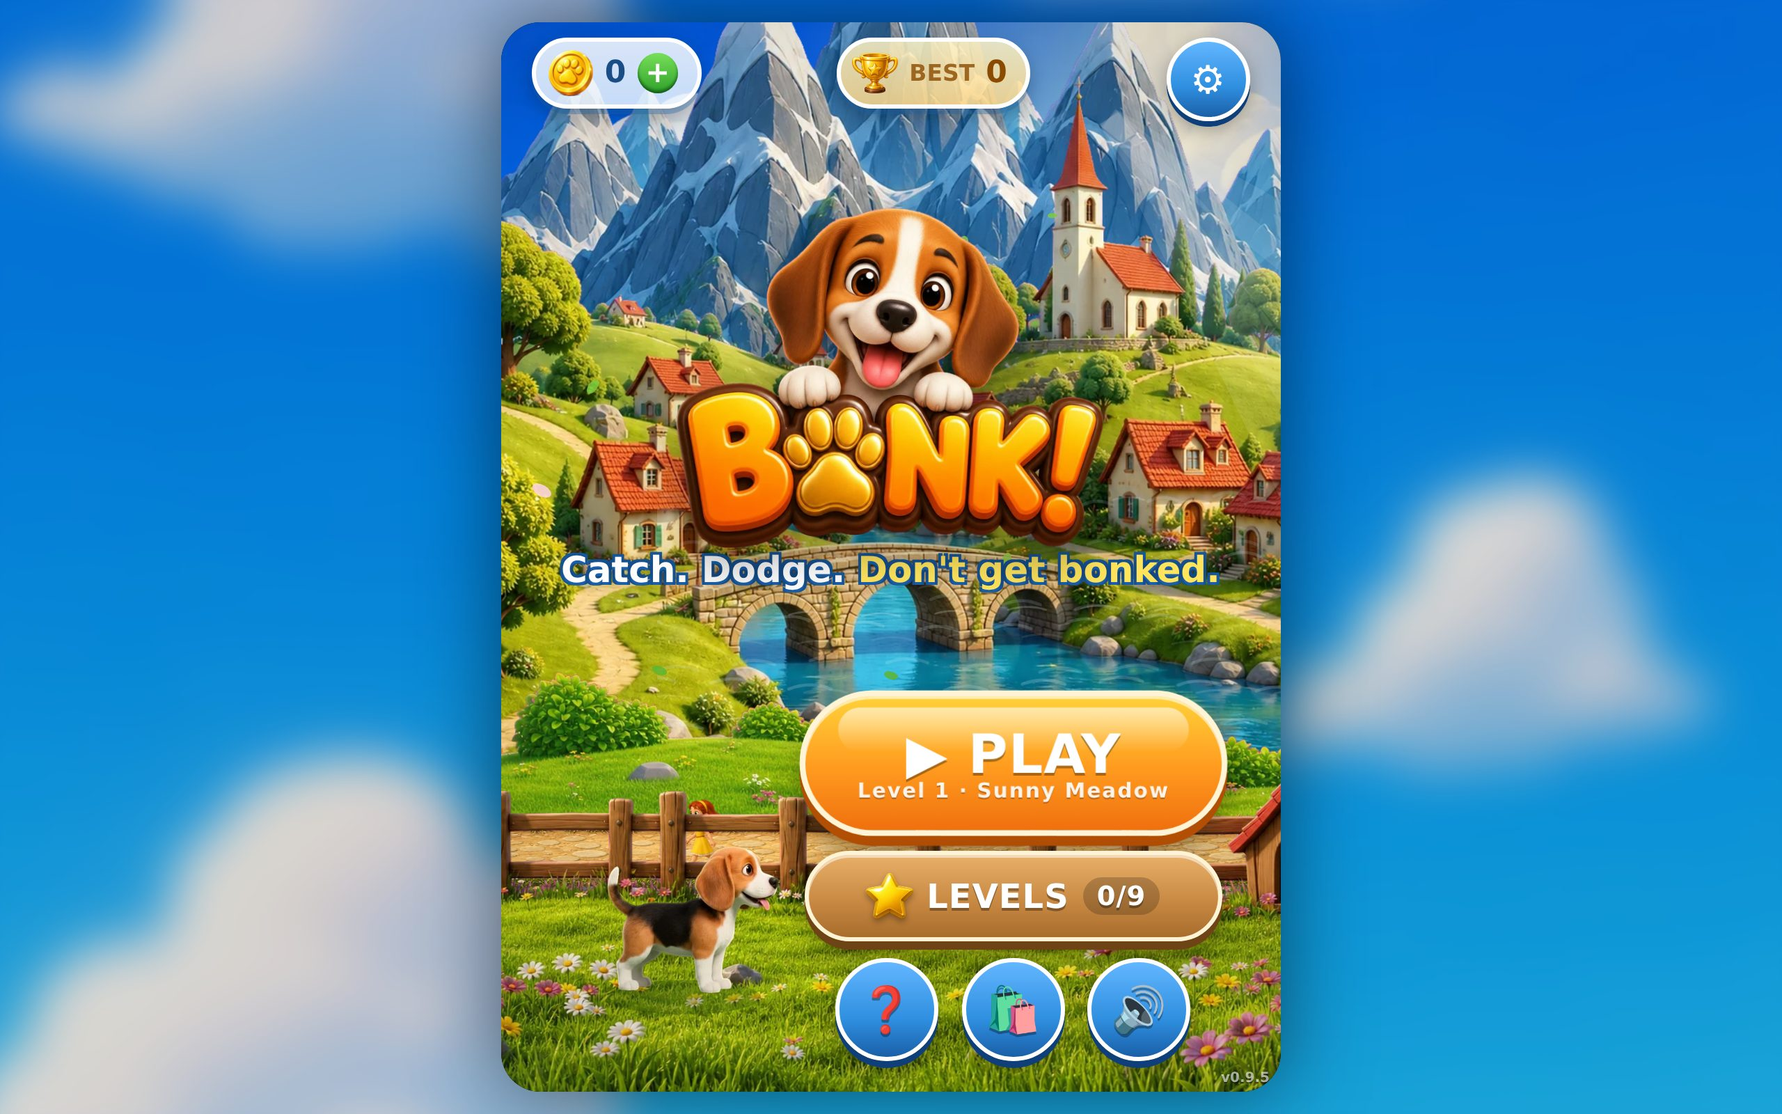
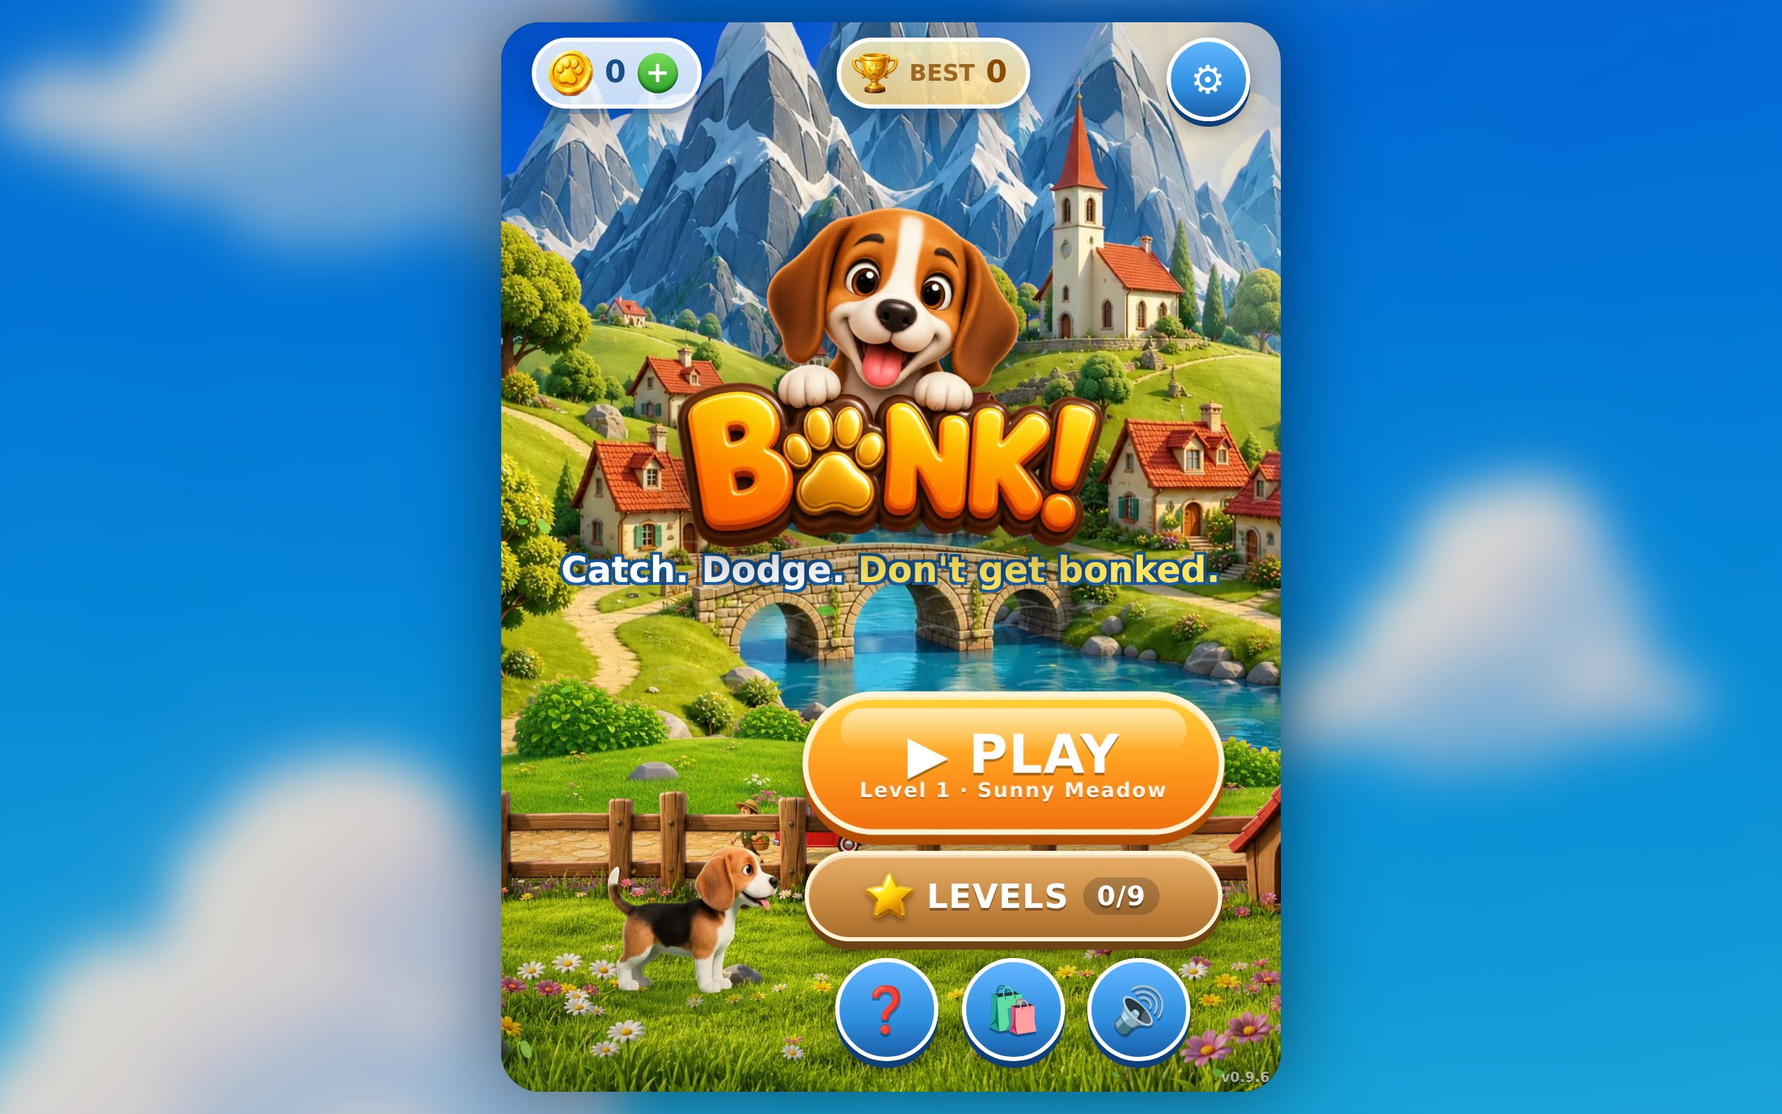
v0.9.6 — compact gameplay HUD (26% → 10% of stage)

diff --git a/styles/hud.css b/styles/hud.css
@@ -1,24 +1,34 @@
 /* BONK! — in-game HUD, controls, floating FX */
-#hud{justify-content:flex-start;gap:6px}
-.hud-top{width:100%;display:flex;justify-content:space-between;align-items:flex-start}
-.scorebox{background:linear-gradient(#173d6ee6,#0f2c52e6);border:3px solid #6fb6ff;border-radius:16px;padding:6px 14px 6px 10px;color:#fff;box-shadow:0 4px 0 #071a33,0 6px 14px #0006;display:flex;gap:10px;align-items:center}
-.scorebox img{width:clamp(28px,8cqmin,44px)}
-.scorebox .lbl{font-size:clamp(10px,2.8cqmin,13px);font-weight:800;letter-spacing:1px;opacity:.85;line-height:1}
-.scorebox .val{font-size:clamp(22px,6.5cqmin,34px);font-weight:900;line-height:1.05;text-shadow:0 2px 0 #0007}
-.scorebox .best{font-size:clamp(11px,3.2cqmin,15px);font-weight:800;color:#ffd23a;line-height:1}
-.hud-right{display:flex;flex-direction:column;align-items:flex-end;gap:8px}
-.hud-right .row{display:flex;gap:8px;align-items:center}
-.hearts{display:flex;gap:4px}
-.hearts img{width:clamp(26px,7.5cqmin,40px);height:auto;transition:transform .2s;filter:drop-shadow(0 2px 2px #0006)}
+#hud{justify-content:flex-start;gap:0;padding-top:calc(env(safe-area-inset-top,0px) + 1.2%)}
+/* --- top row: pause+hearts | score | coins+level (single line, ~7% of stage) --- */
+.hud-row{width:100%;display:grid;grid-template-columns:1fr auto 1fr;align-items:center;gap:6px}
+.hud-l{display:flex;align-items:center;gap:6px;justify-self:start;pointer-events:auto}
+.hud-r{display:flex;flex-direction:column;align-items:flex-end;gap:3px;justify-self:end}
+.hud-c{display:flex;flex-direction:column;align-items:center;line-height:1}
+.hbtn{width:clamp(34px,9cqmin,46px);height:clamp(34px,9cqmin,46px);border-radius:50%;border:2px solid #fff;background:linear-gradient(#63b6ff,#2f8fe0 60%,#1a5fa8);color:#fff;font-weight:900;font-size:clamp(12px,3.4cqmin,16px);
+      box-shadow:0 3px 0 #0f3d73,0 4px 8px #0005;cursor:pointer;display:grid;place-items:center;letter-spacing:-1px}
+.hbtn:active{transform:translateY(2px);box-shadow:0 1px 0 #0f3d73}
+.hearts{display:flex;gap:2px}
+.hearts img{width:clamp(18px,5.4cqmin,28px);height:auto;transition:transform .2s;filter:drop-shadow(0 2px 2px #0006)}
 .hearts img.lost{animation:heartPop .5s ease both}
-.level-tag{font-weight:900;color:#fff;font-size:clamp(12px,3.6cqmin,17px);text-shadow:0 2px 0 #1a5fa8,0 0 8px #0008;background:#1a4c86b3;border:2px solid #fff;border-radius:999px;padding:3px 12px}
-.powerbar{display:flex;gap:6px;min-height:24px}
-.power{display:flex;align-items:center;gap:4px;background:#fff6;border:2px solid #fff;border-radius:999px;padding:2px 8px 2px 4px;font-weight:900;font-size:clamp(11px,3.2cqmin,15px);color:#1a4c86;position:relative;overflow:hidden}
-.power img{width:1.4em}
+.score{font-size:clamp(28px,9cqmin,44px);font-weight:900;color:#fff;text-shadow:0 3px 0 #1a4c86,2px 2px 0 #1a4c86,-2px 2px 0 #1a4c86,2px -2px 0 #1a4c86,-2px -2px 0 #1a4c86,0 0 14px #0009;letter-spacing:.5px}
+.score.bump{animation:scoreBump .25s ease}
+.best{font-size:clamp(9px,2.7cqmin,12px);font-weight:900;color:#ffd23a;text-shadow:0 1px 0 #1a4c86,0 0 6px #0008;letter-spacing:1px;margin-top:1px}
+.chip{display:flex;align-items:center;gap:4px;background:#0f2c52b3;border:2px solid #ffffffcc;border-radius:999px;padding:1px 9px 1px 4px;color:#fff;font-weight:900;font-size:clamp(11px,3.3cqmin,15px);text-shadow:0 1px 0 #0007}
+.chip img{width:1.35em;height:1.35em;object-fit:contain}
+.lvl{font-weight:900;color:#fff;font-size:clamp(9px,2.7cqmin,12px);letter-spacing:1px;text-shadow:0 1px 0 #1a5fa8,0 0 6px #0008;opacity:.9;padding-right:4px}
+/* --- progress line --- */
+.progress{width:58%;height:7px;border-radius:99px;background:#0f2c52b3;border:1.5px solid #fffc;position:relative;margin-top:3px;box-shadow:0 1px 4px #0005}
+.progress i{display:block;height:100%;width:0;border-radius:99px;background:linear-gradient(#ffe45c,#ff9a1f);transition:width .3s;box-shadow:inset 0 -1px 0 #b34e05}
+.progress img{position:absolute;right:-10px;top:50%;width:18px;transform:translateY(-50%) rotate(20deg);filter:drop-shadow(0 1px 2px #0006)}
+/* --- small chips row (goal · powers · combo) --- */
+.hud-chips{display:flex;align-items:center;justify-content:center;gap:5px;margin-top:5px;flex-wrap:nowrap;max-width:98%;min-height:22px}
+.hud-chips > *{flex:0 1 auto;min-width:0}
+.powerbar{display:flex;gap:4px;min-height:0}
+.power{display:flex;align-items:center;gap:3px;background:#fff6;border:2px solid #fff;border-radius:999px;padding:1px 7px 1px 3px;font-weight:900;font-size:clamp(10px,2.9cqmin,13px);color:#1a4c86;position:relative;overflow:hidden}
+.power img{width:1.35em}
 .power i{position:absolute;left:0;top:0;bottom:0;background:#ffffff88;z-index:-1;transition:width .15s linear}
-.progress{width:70%;height:14px;border-radius:99px;background:#0f2c52b3;border:2px solid #fff;position:relative;margin-top:4px;box-shadow:0 2px 6px #0005}
-.progress i{display:block;height:100%;width:0;border-radius:99px;background:linear-gradient(#ffe45c,#ff9a1f);transition:width .3s;box-shadow:inset 0 -2px 0 #b34e05}
-.progress img{position:absolute;right:-12px;top:50%;width:26px;transform:translateY(-50%) rotate(20deg);filter:drop-shadow(0 2px 2px #0006)}
+@keyframes scoreBump{0%{transform:scale(1)}40%{transform:scale(1.18)}100%{transform:scale(1)}}
 
 /* control buttons */
 .controls{position:absolute;left:0;right:0;bottom:calc(env(safe-area-inset-bottom,0px) + 3%);display:flex;justify-content:space-between;padding:0 5%;pointer-events:none}
@@ -51,13 +61,13 @@
 @keyframes count{0%{opacity:0;transform:scale(2.2)}30%{opacity:1;transform:scale(1)}80%{opacity:1}100%{opacity:0;transform:scale(.8)}}
 
 /* combo paw-chain */
-.combo{display:flex;align-items:center;gap:8px;pointer-events:none;opacity:0;transform:scale(.7);transition:opacity .25s,transform .25s;background:#0f2c52b3;border:2px solid #fff;border-radius:999px;padding:3px 12px 3px 8px;margin-top:2px}
-.combo.on{opacity:1;transform:scale(1)}
+.combo{display:none;align-items:center;gap:5px;pointer-events:none;opacity:0;transform:scale(.7);transition:opacity .25s,transform .25s;background:#0f2c52b3;border:2px solid #fff;border-radius:999px;padding:1px 9px 1px 6px}
+.combo.on{display:flex;opacity:1;transform:scale(1)}
 .combo .paws{display:flex;gap:3px}
-.combo .paws i{width:clamp(14px,4.2cqmin,22px);height:clamp(14px,4.2cqmin,22px);border-radius:50%;background:#0f2c5266;border:2px solid #fff9;display:grid;place-items:center;font-size:.7em;transition:transform .15s,background .15s}
+.combo .paws i{width:clamp(11px,3.2cqmin,16px);height:clamp(11px,3.2cqmin,16px);border-radius:50%;background:#0f2c5266;border:2px solid #fff9;display:grid;place-items:center;font-size:.7em;transition:transform .15s,background .15s}
 .combo .paws i.on{background:linear-gradient(#ffe45c,#ff9a1f);border-color:#fff;box-shadow:0 0 8px #ffd23a;transform:scale(1.15)}
-.combo .paws i.on::after{content:"🐾";font-size:clamp(9px,2.6cqmin,13px);filter:drop-shadow(0 1px 0 #0006)}
-.combo .mult{font-weight:900;color:#ffd23a;font-size:clamp(16px,4.8cqmin,26px);text-shadow:0 2px 0 #b3300a,2px 2px 0 #b3300a,-2px 2px 0 #b3300a,2px -2px 0 #b3300a,-2px -2px 0 #b3300a,0 0 14px #ff9a1f;line-height:1}
+.combo .paws i.on::after{content:"🐾";font-size:clamp(7px,2cqmin,10px);filter:drop-shadow(0 1px 0 #0006)}
+.combo .mult{font-weight:900;color:#ffd23a;font-size:clamp(13px,3.8cqmin,19px);text-shadow:0 2px 0 #b3300a,2px 2px 0 #b3300a,-2px 2px 0 #b3300a,2px -2px 0 #b3300a,-2px -2px 0 #b3300a,0 0 14px #ff9a1f;line-height:1}
 .combo.pulse .mult{animation:comboPulse .35s ease}
 .combo.max .mult{color:#fff;text-shadow:0 2px 0 #c9720a,2px 2px 0 #c9720a,-2px 2px 0 #c9720a,2px -2px 0 #c9720a,-2px -2px 0 #c9720a,0 0 20px #ffd23a}
 @keyframes comboPulse{0%{transform:scale(1)}40%{transform:scale(1.5) rotate(-6deg)}100%{transform:scale(1)}}

diff --git a/index.html b/index.html
@@ -5,7 +5,7 @@
 <meta name="viewport" content="width=device-width, initial-scale=1.0, maximum-scale=1.0, user-scalable=no, viewport-fit=cover">
 <meta name="theme-color" content="#2f8fe0">
 <title>BONK! — Catch. Dodge. Don't get bonked.</title>
-<link rel="stylesheet" href="styles/main.css?v=0.9.5">
+<link rel="stylesheet" href="styles/main.css?v=0.9.6">
 </head>
 <body>
 <div id="backdrop"></div>
@@ -65,27 +65,27 @@
 
   <!-- ================= GAME HUD ================= -->
   <div class="scene" id="hud">
-    <div class="hud-top">
-      <div class="scorebox">
-        <img src="assets/images/ui/trophy.webp" alt="">
-        <div>
-          <div class="lbl">SCORE</div>
-          <div class="val" id="hScore">0</div>
-          <div class="best">BEST <span id="hBest">0</span></div>
-        </div>
+    <!-- Compact HUD (≤15% of the stage): one row — pause+hearts | big score | coins+level — then a thin progress line and small chips -->
+    <div class="hud-row">
+      <div class="hud-l">
+        <button class="hbtn" id="btnPause" aria-label="Pause">❚❚</button>
+        <div class="hearts" id="hearts"></div>
       </div>
-      <div class="hud-right">
-        <div class="row">
-          <div class="pill"><img src="assets/images/items/coin.webp" alt=""><span id="hCoins">0</span></div>
-          <button class="iconbtn" id="btnPause" aria-label="Pause">❚❚</button>
-        </div>
-        <div class="row"><span class="level-tag" id="hLevel">LEVEL 1</span><div class="hearts" id="hearts"></div></div>
-        <div class="powerbar" id="powerbar"></div>
+      <div class="hud-c">
+        <div class="score" id="hScore">0</div>
+        <div class="best">BEST <span id="hBest">0</span></div>
+      </div>
+      <div class="hud-r">
+        <div class="chip coin"><img src="assets/images/items/coin.webp" alt=""><span id="hCoins">0</span></div>
+        <span class="lvl" id="hLevel">LV 1</span>
       </div>
     </div>
     <div class="progress" title="Level progress"><i id="levelProgress"></i><img src="assets/images/items/bone.webp" alt=""></div>
-    <div class="goalchip" id="goalChip"><img src="assets/images/ui/star_grey.webp" alt=""><span id="goalText"></span><i id="goalBar"></i></div>
-    <div class="combo" id="combo"><div class="paws" id="comboPaws"></div><div class="mult" id="comboMult">×1</div></div>
+    <div class="hud-chips">
+      <div class="goalchip" id="goalChip"><img src="assets/images/ui/star_grey.webp" alt=""><span id="goalText"></span><i id="goalBar"></i></div>
+      <div class="powerbar" id="powerbar"></div>
+      <div class="combo" id="combo"><div class="paws" id="comboPaws"></div><div class="mult" id="comboMult">×1</div></div>
+    </div>
     <div class="ftue" id="ftue"><div class="bubble" id="ftueText"></div><div class="hand" id="ftueHand">👆</div></div>
     <div class="controls">
       <button class="ctl" id="ctlL" aria-label="Left"><img src="assets/images/ui/btn_left.webp" alt="" draggable="false"></button>
@@ -179,35 +179,35 @@
 </div>
 
 <!-- core -->
-<script src="src/core/config.js?v=0.9.5"></script>
-<script src="src/core/events.js?v=0.9.5"></script>
-<script src="src/core/flags.js?v=0.9.5"></script>
-<script src="src/core/analytics.js?v=0.9.5"></script>
-<script src="src/core/save.js?v=0.9.5"></script>
-<script src="src/core/wallet.js?v=0.9.5"></script>
-<script src="src/core/storage.js?v=0.9.5"></script>
-<script src="src/core/assets.js?v=0.9.5"></script>
-<script src="src/core/audio.js?v=0.9.5"></script>
-<script src="src/core/input.js?v=0.9.5"></script>
+<script src="src/core/config.js?v=0.9.6"></script>
+<script src="src/core/events.js?v=0.9.6"></script>
+<script src="src/core/flags.js?v=0.9.6"></script>
+<script src="src/core/analytics.js?v=0.9.6"></script>
+<script src="src/core/save.js?v=0.9.6"></script>
+<script src="src/core/wallet.js?v=0.9.6"></script>
+<script src="src/core/storage.js?v=0.9.6"></script>
+<script src="src/core/assets.js?v=0.9.6"></script>
+<script src="src/core/audio.js?v=0.9.6"></script>
+<script src="src/core/input.js?v=0.9.6"></script>
 <!-- game data -->
-<script src="src/game/items.js?v=0.9.5"></script>
-<script src="src/game/goals.js?v=0.9.5"></script>
-<script src="src/game/levels.js?v=0.9.5"></script>
+<script src="src/game/items.js?v=0.9.6"></script>
+<script src="src/game/goals.js?v=0.9.6"></script>
+<script src="src/game/levels.js?v=0.9.6"></script>
 <!-- game systems -->
-<script src="src/game/ambient.js?v=0.9.5"></script>
-<script src="src/game/background.js?v=0.9.5"></script>
-<script src="src/game/effects.js?v=0.9.5"></script>
-<script src="src/game/puppy.js?v=0.9.5"></script>
-<script src="src/game/spawner.js?v=0.9.5"></script>
-<script src="src/game/game.js?v=0.9.5"></script>
-<script src="src/game/ftue.js?v=0.9.5"></script>
+<script src="src/game/ambient.js?v=0.9.6"></script>
+<script src="src/game/background.js?v=0.9.6"></script>
+<script src="src/game/effects.js?v=0.9.6"></script>
+<script src="src/game/puppy.js?v=0.9.6"></script>
+<script src="src/game/spawner.js?v=0.9.6"></script>
+<script src="src/game/game.js?v=0.9.6"></script>
+<script src="src/game/ftue.js?v=0.9.6"></script>
 <!-- ui + scenes -->
-<script src="src/ui/hud.js?v=0.9.5"></script>
-<script src="src/ui/modals.js?v=0.9.5"></script>
-<script src="src/scenes/menu.js?v=0.9.5"></script>
-<script src="src/scenes/map.js?v=0.9.5"></script>
-<script src="src/scenes/play.js?v=0.9.5"></script>
+<script src="src/ui/hud.js?v=0.9.6"></script>
+<script src="src/ui/modals.js?v=0.9.6"></script>
+<script src="src/scenes/menu.js?v=0.9.6"></script>
+<script src="src/scenes/map.js?v=0.9.6"></script>
+<script src="src/scenes/play.js?v=0.9.6"></script>
 <!-- bootstrap -->
-<script src="src/app.js?v=0.9.5"></script>
+<script src="src/app.js?v=0.9.6"></script>
 </body>
 </html>

diff --git a/src/game/goals.js b/src/game/goals.js
@@ -17,7 +17,7 @@
  */
 const GOALS = Object.freeze({
   bonesIn: {
-    label: c => `${c.count} bones in first ${c.seconds}s`,
+    label: c => `${c.count} bones in first ${c.seconds}s`, short: c => `🦴 ${c.count} in ${c.seconds}s`,
     init: () => ({ n: 0, hit: false }),
     on: (ev, S, st, c, it) => { if (ev === 'catch' && it.type === 'bone' && S.time <= c.seconds) { st.n++; if (st.n >= c.count) st.hit = true; } },
     done: (S, st) => st.hit,
@@ -25,14 +25,14 @@ const GOALS = Object.freeze({
     progress: (S, st, c) => Math.min(1, st.n / c.count),
   },
   coins: {
-    label: c => `Collect ${c.count} coins`,
+    label: c => `Collect ${c.count} coins`, short: c => `🪙 ${c.count}`,
     init: () => ({ n: 0 }),
     on: (ev, S, st, c, it) => { if (ev === 'catch' && it.type === 'coin') st.n += it.def.coins || 1; },
     done: (S, st, c) => st.n >= c.count,
     progress: (S, st, c) => Math.min(1, st.n / c.count),
   },
   noBomb: {
-    label: () => `No bombs (never dizzy)`,
+    label: () => `No bombs (never dizzy)`, short: () => `💣 none`,
     survive: true,                       // "don't do X" goal: only counts as done when the level is cleared (HUD keeps it live)
     init: () => ({ ok: true }),
     on: (ev, S, st, c, it) => { if (ev === 'hit' && it.type === 'bomb') st.ok = false; },
@@ -40,28 +40,28 @@ const GOALS = Object.freeze({
     progress: (S, st) => st.ok ? 1 : 0,
   },
   combo: {
-    label: c => `Reach combo ×${c.mult}`,
+    label: c => `Reach combo ×${c.mult}`, short: c => `🔥 ×${c.mult}`,
     init: () => ({ hit: false }),
     on: (ev, S, st, c) => { if (ev === 'catch' && S.combo && S.combo.mult >= c.mult) st.hit = true; },
     done: (S, st) => st.hit,
     progress: (S, st, c) => st.hit ? 1 : Math.min(1, ((S.combo && S.combo.mult) || 1) / c.mult),
   },
   nearMiss: {
-    label: c => `${c.count} near misses (Phew!)`,
+    label: c => `${c.count} near misses (Phew!)`, short: c => `😅 ${c.count}`,
     init: () => ({ n: 0 }),
     on: (ev, S, st) => { if (ev === 'near') st.n++; },
     done: (S, st, c) => st.n >= c.count,
     progress: (S, st, c) => Math.min(1, st.n / c.count),
   },
   goldBones: {
-    label: c => `Catch ${c.count} gold bone${c.count > 1 ? 's' : ''}`,
+    label: c => `Catch ${c.count} gold bone${c.count > 1 ? 's' : ''}`, short: c => `✨ ${c.count}`,
     init: () => ({ n: 0 }),
     on: (ev, S, st, c, it) => { if (ev === 'catch' && it.type === 'goldbone') st.n++; },
     done: (S, st, c) => st.n >= c.count,
     progress: (S, st, c) => Math.min(1, st.n / c.count),
   },
   power: {
-    label: c => `Grab ${c.count} power-ups`,
+    label: c => `Grab ${c.count} power-ups`, short: c => `⚡ ${c.count}`,
     init: () => ({ n: 0 }),
     on: (ev, S, st, c, it) => { if (ev === 'catch' && it.def.kind === 'power') st.n++; },
     done: (S, st, c) => st.n >= c.count,
@@ -82,6 +82,7 @@ const Goals = {
     ];
   },
   label(L) { const g = L.goal; return g ? GOALS[g.type].label(g) : ''; },
+  short(L) { const g = L.goal; return g ? (GOALS[g.type].short || GOALS[g.type].label)(g) : ''; },
   progress(S) { return S.goal ? S.goal.def.progress(S, S.goal.st, S.goal.cfg) : 0; },
   failed(S) { return !!(S.goal && S.goal.def.failed && S.goal.def.failed(S, S.goal.st, S.goal.cfg)); },
 };

diff --git a/src/ui/hud.js b/src/ui/hud.js
@@ -10,7 +10,7 @@ const HUD = (() => {
   let comboKey = '';
   let zones = null, zoneW = 0;
   let goalState = '';
-  let lastPower = '';
+  let lastPower = '', lastScore = -1;
 
   function hearts(S, animLost) {
     el.hearts.innerHTML = '';
@@ -22,7 +22,8 @@ const HUD = (() => {
   function update(S) {
     el.score.textContent = S.score.toLocaleString(); el.coins.textContent = S.coins.toLocaleString();
     el.best.textContent = Math.max(S.score, Store.best()).toLocaleString();
-    el.level.textContent = `LEVEL ${S.level.id}`;
+    el.level.textContent = `LV ${S.level.id}`;
+    if (S.score !== lastScore) { lastScore = S.score; el.score.classList.remove('bump'); void el.score.offsetWidth; el.score.classList.add('bump'); }
     el.progress.style.width = (S.cleared ? 100 : Math.min(100, S.score / S.level.target * 100)) + '%';
     let html = '';
     for (const k in S.powers) if (S.powers[k] > 0) { const P = POWERS[k];
@@ -43,7 +44,7 @@ const HUD = (() => {
       const st = done ? 'done' : failed ? 'failed' : 'live';
       if (st !== goalState) { goalState = st; el.chip.classList.toggle('done', done); el.chip.classList.toggle('failed', failed); el.chip.classList.remove('hide');
         el.chip.querySelector('img').src = Assets.url(done ? 'star_gold' : 'star_grey');
-        if (done) { el.goalText.textContent = 'Goal complete!'; FX.pop(BG.W / 2, BG.H * .30, '⭐ GOAL!', 'bad'); }
+        if (done) { el.goalText.textContent = 'Goal ✓'; FX.pop(BG.W / 2, BG.H * .30, '⭐ GOAL!', 'bad'); }
         if (done || failed) setTimeout(() => el.chip.classList.add('hide'), 3000); }
     }
   }
@@ -62,7 +63,7 @@ const HUD = (() => {
     comboKey = ''; el.combo.classList.remove('on', 'max', 'pulse'); combo(S);
     hearts(S); el.hint.style.opacity = (S && S.levelIdx > 0) || !Store.ftueDone() ? 0 : 1; lastPower = null; goalState = ''; zones = null;
     el.chip.classList.remove('done', 'failed', 'hide'); el.chip.style.display = S.goal ? '' : 'none';
-    if (S.goal) { el.goalText.textContent = Goals.label(S.level); el.chip.querySelector('img').src = Assets.url('star_grey'); el.goalBar.style.width = '0%'; }
+    if (S.goal) { el.goalText.textContent = Goals.short(S.level); el.chip.title = Goals.label(S.level); el.chip.querySelector('img').src = Assets.url('star_grey'); el.goalBar.style.width = '0%'; }
     update(S);
   }
   function countdown(txt) {

diff --git a/styles/map.css b/styles/map.css
@@ -84,9 +84,10 @@
 .btn-wood b{font-size:.8em;background:#0003;border-radius:999px;padding:2px 10px}
 
 /* ---- HUD goal chip ---- */
-.goalchip{position:relative;display:flex;align-items:center;gap:6px;background:#0f2c52b3;border:2px solid #fff;border-radius:999px;padding:3px 12px 3px 6px;color:#fff;font-weight:800;
-  font-size:clamp(11px,3.2cqmin,14px);overflow:hidden;margin-top:4px;transition:opacity .4s,transform .3s;max-width:88%;white-space:nowrap}
-.goalchip img{width:1.5em;position:relative;z-index:1}
+.goalchip{position:relative;display:flex;align-items:center;gap:4px;background:#0f2c52b3;border:2px solid #fff;border-radius:999px;padding:1px 9px 1px 4px;color:#fff;font-weight:800;
+  font-size:clamp(10px,2.9cqmin,13px);overflow:hidden;transition:opacity .4s,transform .3s;max-width:50%;white-space:nowrap;text-overflow:ellipsis}
+.goalchip span{overflow:hidden;text-overflow:ellipsis}
+.goalchip img{width:1.35em;position:relative;z-index:1}
 .goalchip span{position:relative;z-index:1}
 .goalchip i{position:absolute;left:0;top:0;bottom:0;width:0;background:linear-gradient(90deg,#ffd23a88,#ff9a1f88);transition:width .3s}
 .goalchip.done{border-color:#ffd23a;background:#3fae37cc}

diff --git a/src/core/config.js b/src/core/config.js
@@ -6,7 +6,7 @@
  * Item definitions live in src/game/items.js
  */
 const CONFIG = Object.freeze({
-  VERSION: '0.9.5',
+  VERSION: '0.9.6',
   STORAGE_PREFIX: 'bonk_',
 
   /** Player (puppy) */

diff --git a/docs/ARCHITECTURE.md b/docs/ARCHITECTURE.md
@@ -14,7 +14,7 @@ adding `export`/`import` lines — the boundaries are already clean.
 │ scenes/           MenuScene · MapScene · PlayScene           │
 │                   (glue: user actions ⇄ Game events ⇄ UI)    │
 ├──────────────────────────────────────────────────────────────┤
-│ ui/               HUD · Modals            (DOM only)         │
+│ ui/               HUD (compact, ≤15 % of stage) · Modals     │
 ├──────────────────────────────────────────────────────────────┤
 │ game/             Game ─┬─ Puppy          FTUE (first-run hints)│
 │                         ├─ Spawner ── ITEMS / POWERS (data)  │

diff --git a/README.md b/README.md
@@ -3,7 +3,7 @@
 A polished 2D catch-and-dodge mobile web game with a Pixar-style parallax world.
 Move the puppy left/right, catch bones and coins, grab power-ups, and dodge falling rocks and bombs.
 
-**Version:** 0.9.5 · **Stack:** vanilla HTML5 Canvas + JS + CSS (no build step, no dependencies)
+**Version:** 0.9.6 · **Stack:** vanilla HTML5 Canvas + JS + CSS (no build step, no dependencies)
 
 ![BONK! gameplay](docs/screenshots/00_overview.jpg)
 
